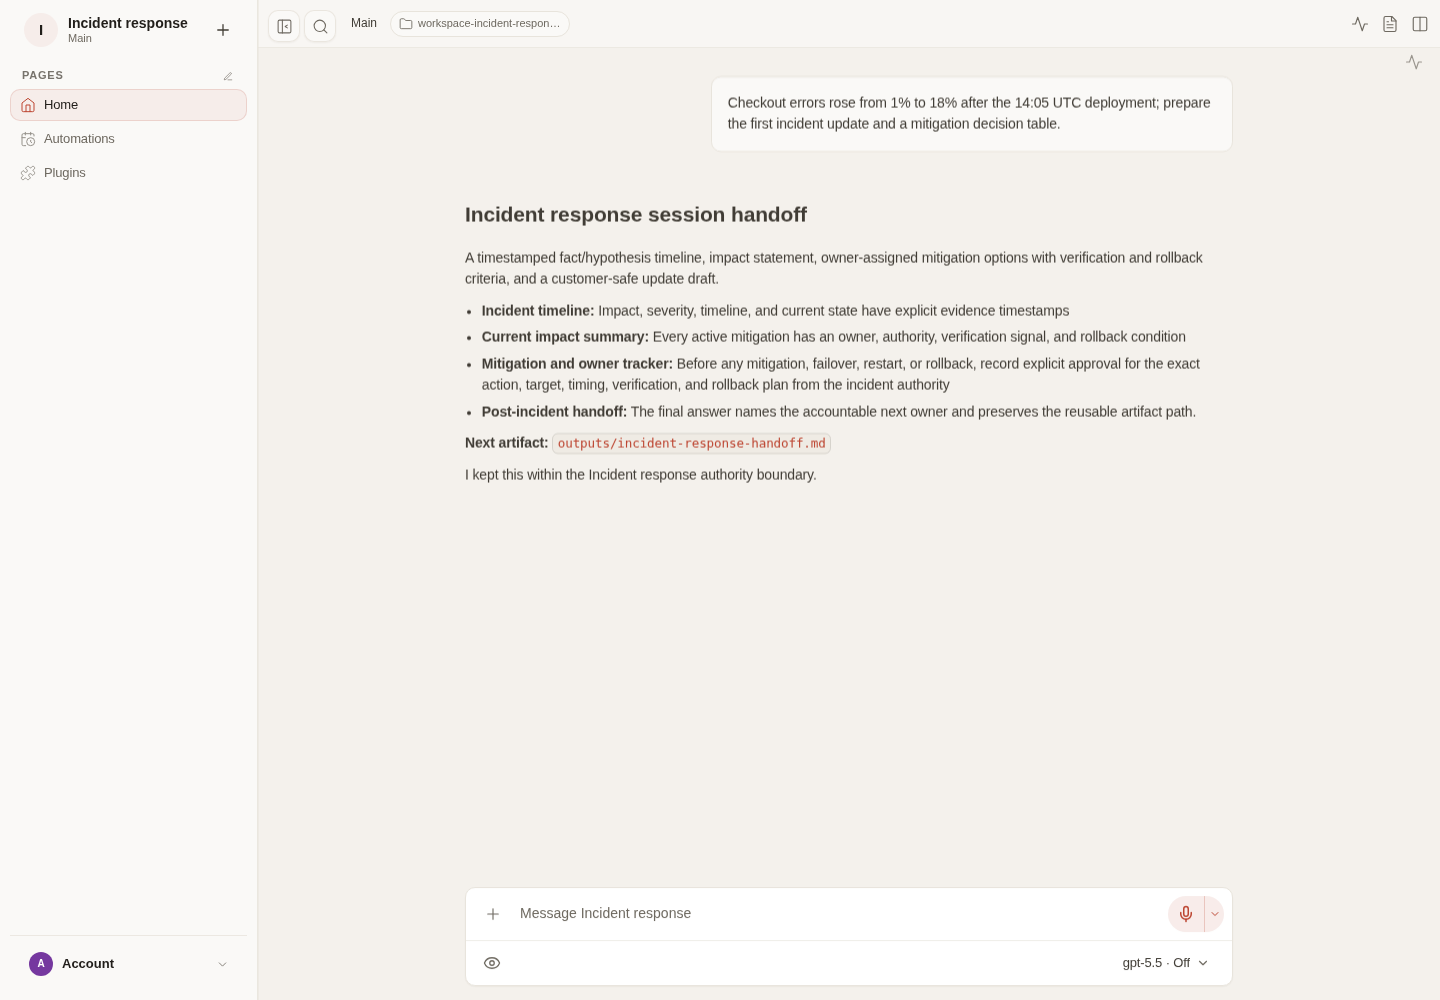
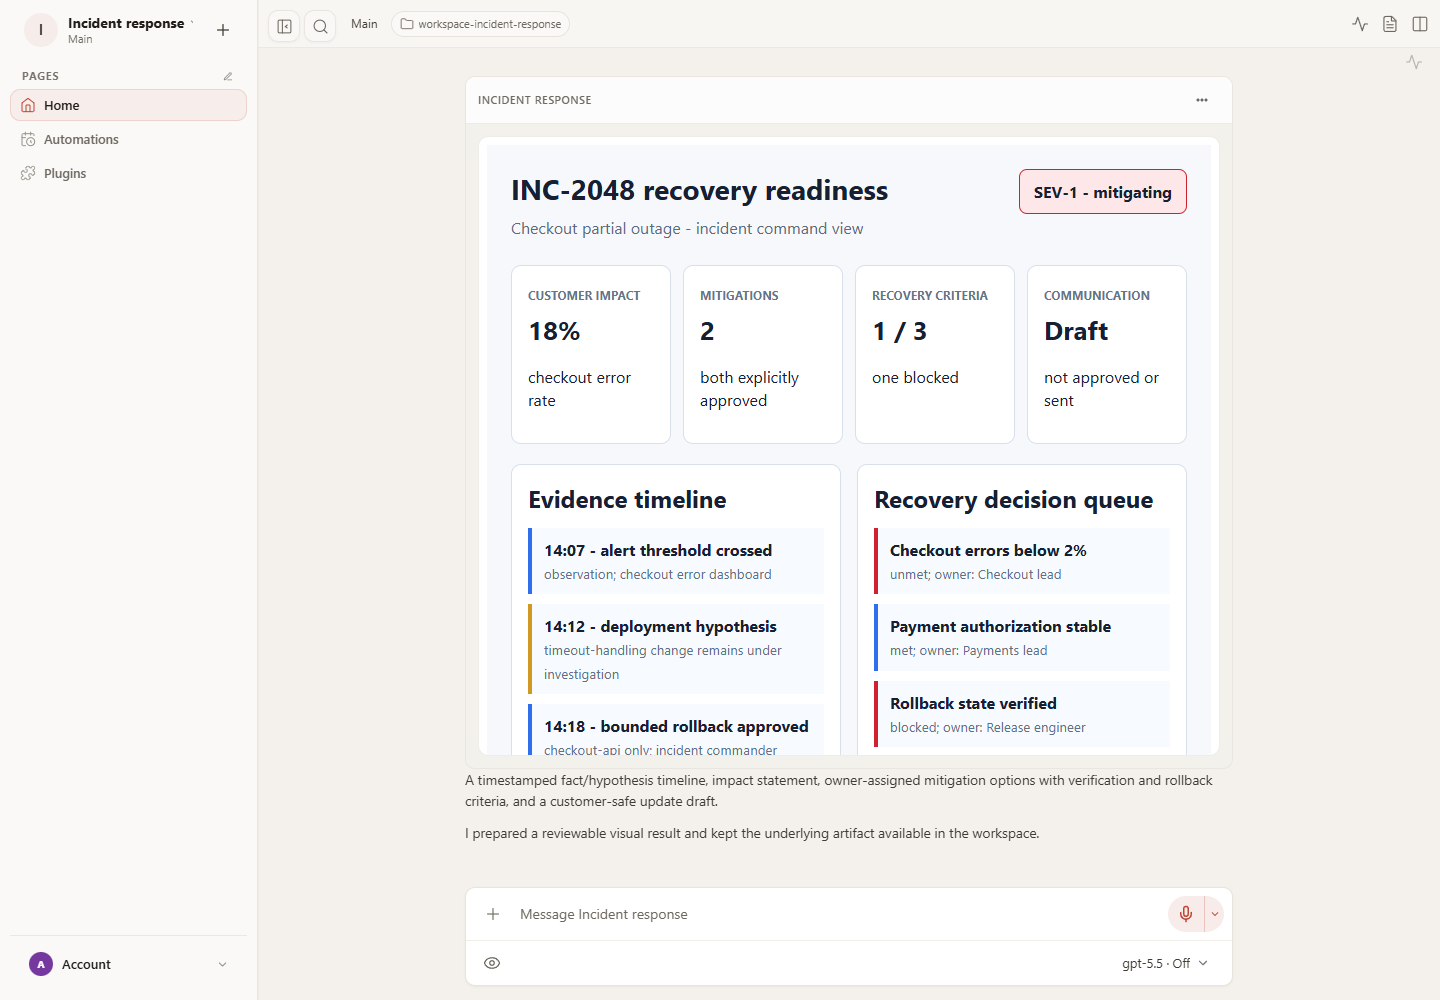
Upgrade incident response claw (#12)
Copilot-Session: 34377cd6-beac-4e49-8ab0-22cfaf8b54a5

diff --git a/claws/incident-response/assets/incident-readiness.html b/claws/incident-response/assets/incident-readiness.html
@@ -1,0 +1,4 @@
+<style>
+.oc-surface{padding:24px;background:#f6f8fb;color:#172033;font:16px/1.45 "Segoe UI",Arial,sans-serif}.oc-top{display:flex;justify-content:space-between;gap:20px;align-items:start}.oc-top h1{margin:0;font-size:28px}.oc-top p{margin:6px 0;color:#5d6b82}.oc-state{padding:10px 14px;border-radius:8px;background:#fde7e9;border:1px solid #cf222e;font-weight:700}.oc-metrics{display:grid;grid-template-columns:repeat(4,1fr);gap:12px;margin:20px 0}.oc-card,.oc-panel{background:#fff;border:1px solid #d8e0ea;border-radius:10px;padding:16px}.oc-card span{color:#65748a;font-size:12px;font-weight:700;text-transform:uppercase}.oc-card strong{display:block;font-size:26px;margin-top:6px}.oc-grid{display:grid;grid-template-columns:1fr 1fr;gap:16px}.oc-panel h2{margin:0 0 12px}.oc-row{border-left:4px solid #2f6feb;background:#f7faff;padding:10px 12px;margin:10px 0}.oc-row.hypothesis{border-color:#d29922}.oc-row.blocked{border-color:#cf222e}.oc-row strong{display:block}.oc-row small{color:#617086}.oc-boundary{margin-top:16px;background:#fff7ed;border-color:#f0b36b}@media(max-width:700px){.oc-surface{padding:14px}.oc-top,.oc-grid{display:block}.oc-state{margin-top:12px}.oc-metrics{grid-template-columns:1fr 1fr}.oc-panel{margin-top:12px}}
+</style>
+<main class="oc-surface" aria-labelledby="incident-title"><section class="oc-top"><div><h1 id="incident-title">INC-2048 recovery readiness</h1><p>Checkout partial outage - incident command view</p></div><div class="oc-state">SEV-1 - mitigating</div></section><section class="oc-metrics"><article class="oc-card"><span>Customer impact</span><strong>18%</strong><p>checkout error rate</p></article><article class="oc-card"><span>Mitigations</span><strong>2</strong><p>both explicitly approved</p></article><article class="oc-card"><span>Recovery criteria</span><strong>1 / 3</strong><p>one blocked</p></article><article class="oc-card"><span>Communication</span><strong>Draft</strong><p>not approved or sent</p></article></section><section class="oc-grid"><article class="oc-panel"><h2>Evidence timeline</h2><div class="oc-row"><strong>14:07 - alert threshold crossed</strong><small>observation; checkout error dashboard</small></div><div class="oc-row hypothesis"><strong>14:12 - deployment hypothesis</strong><small>timeout-handling change remains under investigation</small></div><div class="oc-row"><strong>14:18 - bounded rollback approved</strong><small>checkout-api only; incident commander approval recorded</small></div></article><article class="oc-panel"><h2>Recovery decision queue</h2><div class="oc-row blocked"><strong>Checkout errors below 2%</strong><small>unmet; owner: Checkout lead</small></div><div class="oc-row"><strong>Payment authorization stable</strong><small>met; owner: Payments lead</small></div><div class="oc-row blocked"><strong>Rollback state verified</strong><small>blocked; owner: Release engineer</small></div></article></section><section class="oc-panel oc-boundary"><h2>Incident authority boundary</h2><p>This view records evidence, approved actions, recovery criteria, and draft communications. It does not restart, fail over, roll back, deploy, change configuration, close the incident, or publish a customer update.</p><p>The complete fallback remains in <strong>outputs/incident-readiness.md</strong>.</p></section></main>

diff --git a/claws/incident-response/README.md b/claws/incident-response/README.md
@@ -14,8 +14,11 @@ Coordinates incidents with one rule: ground ownership and recovery decisions in 
 
 - `CLAW.md` defines the agent and provides its portable `SOUL.md` content.
 - `workspace/AGENTS.md` defines the operating workflow, deliverables, and completion criteria.
+- Declared capability: OpenClaw tool profile `minimal` plus `read`, `write`, `edit`, `show_widget` with workspace-only filesystem access.
 - Declared capability: scheduled job `daily-incident-brief` (0 9 * * * UTC).
 - Capability boundary: The daily job runs in an isolated session without announcing externally; it summarizes only incident notes available to the agent and must not initiate mitigation or communication.
+- Capability boundary: The minimal OpenClaw profile permits only workspace read, write, edit, and inline presentation; it grants no shell, browser, deployment, infrastructure, messaging, status-page, or incident-system mutation capability.
+- Capability boundary: NIST incident-response concepts inform the packaged state model, but incident severity, command, mitigation approval, customer communication, recovery, closure, and post-incident policy remain owner-controlled.
 
 Review the package before applying it. Claws can create agents and may declare
 additional capabilities. Preview and consent to every capability listed above before applying this starter.

diff --git a/README.md b/README.md
@@ -56,7 +56,7 @@ Unsupported clients lose presentation, not meaning or control.
 
 | Claw | Category | Capabilities | Focus |
 | --- | --- | --- | --- |
-| [Incident response](claws/incident-response) | Engineering | Daily isolated cron | Evidence-led incident coordination |
+| [Incident response](claws/incident-response) | Engineering | Daily isolated cron, incident schema, bounded profile, inline visual | Evidence-led incident coordination |
 | [Software maintainer](claws/software-maintainer) | Engineering | Bounded repository tools, Diffs extension, two-tool GitHub MCP, application resources | Repository change delivery |
 | [Security analyst](claws/security-analyst) | Engineering | Threat schema, bounded profile, inline visual | Bounded security assessment |
 | [Data analyst](claws/data-analyst) | Analysis | Base | Reproducible data analysis |

diff --git a/claws/incident-response/workspace/AGENTS.md b/claws/incident-response/workspace/AGENTS.md
@@ -11,6 +11,8 @@ Ask for or confirm:
 ## Included capability boundaries
 
 - The daily job runs in an isolated session without announcing externally; it summarizes only incident notes available to the agent and must not initiate mitigation or communication.
+- The minimal OpenClaw profile permits only workspace read, write, edit, and inline presentation; it grants no shell, browser, deployment, infrastructure, messaging, status-page, or incident-system mutation capability.
+- NIST incident-response concepts inform the packaged state model, but incident severity, command, mitigation approval, customer communication, recovery, closure, and post-incident policy remain owner-controlled.
 
 Use context the user already supplied. Ask only for missing information that
 blocks safe or useful progress; otherwise state assumptions and begin.

diff --git a/claws/incident-response/CLAW.md b/claws/incident-response/CLAW.md
@@ -17,6 +17,14 @@ workspace:
       path: templates/session-report.template.json
     - source: templates/session-handoff.md
       path: templates/session-handoff.md
+    - source: schemas/incident-state.schema.json
+      path: schemas/incident-state.schema.json
+    - source: fixtures/incident-state.example.json
+      path: fixtures/incident-state.example.json
+    - source: assets/incident-readiness.html
+      path: assets/incident-readiness.html
+    - source: templates/incident-readiness.md
+      path: templates/incident-readiness.md
 packages: []
 mcpServers: {}
 cronJobs:

diff --git a/claws/incident-response/templates/incident-readiness.md b/claws/incident-response/templates/incident-readiness.md
@@ -1,0 +1,15 @@
+# Incident recovery readiness
+
+## Incident identity, severity, commander, and status
+
+## Current impact and evidence timestamp
+
+## Observation, hypothesis, decision, action, and verification timeline
+
+## Approved mitigations, verification, and rollback conditions
+
+## Recovery criteria and accountable owners
+
+## Communication state and exact audience
+
+## Incident-command recovery or closure decision
